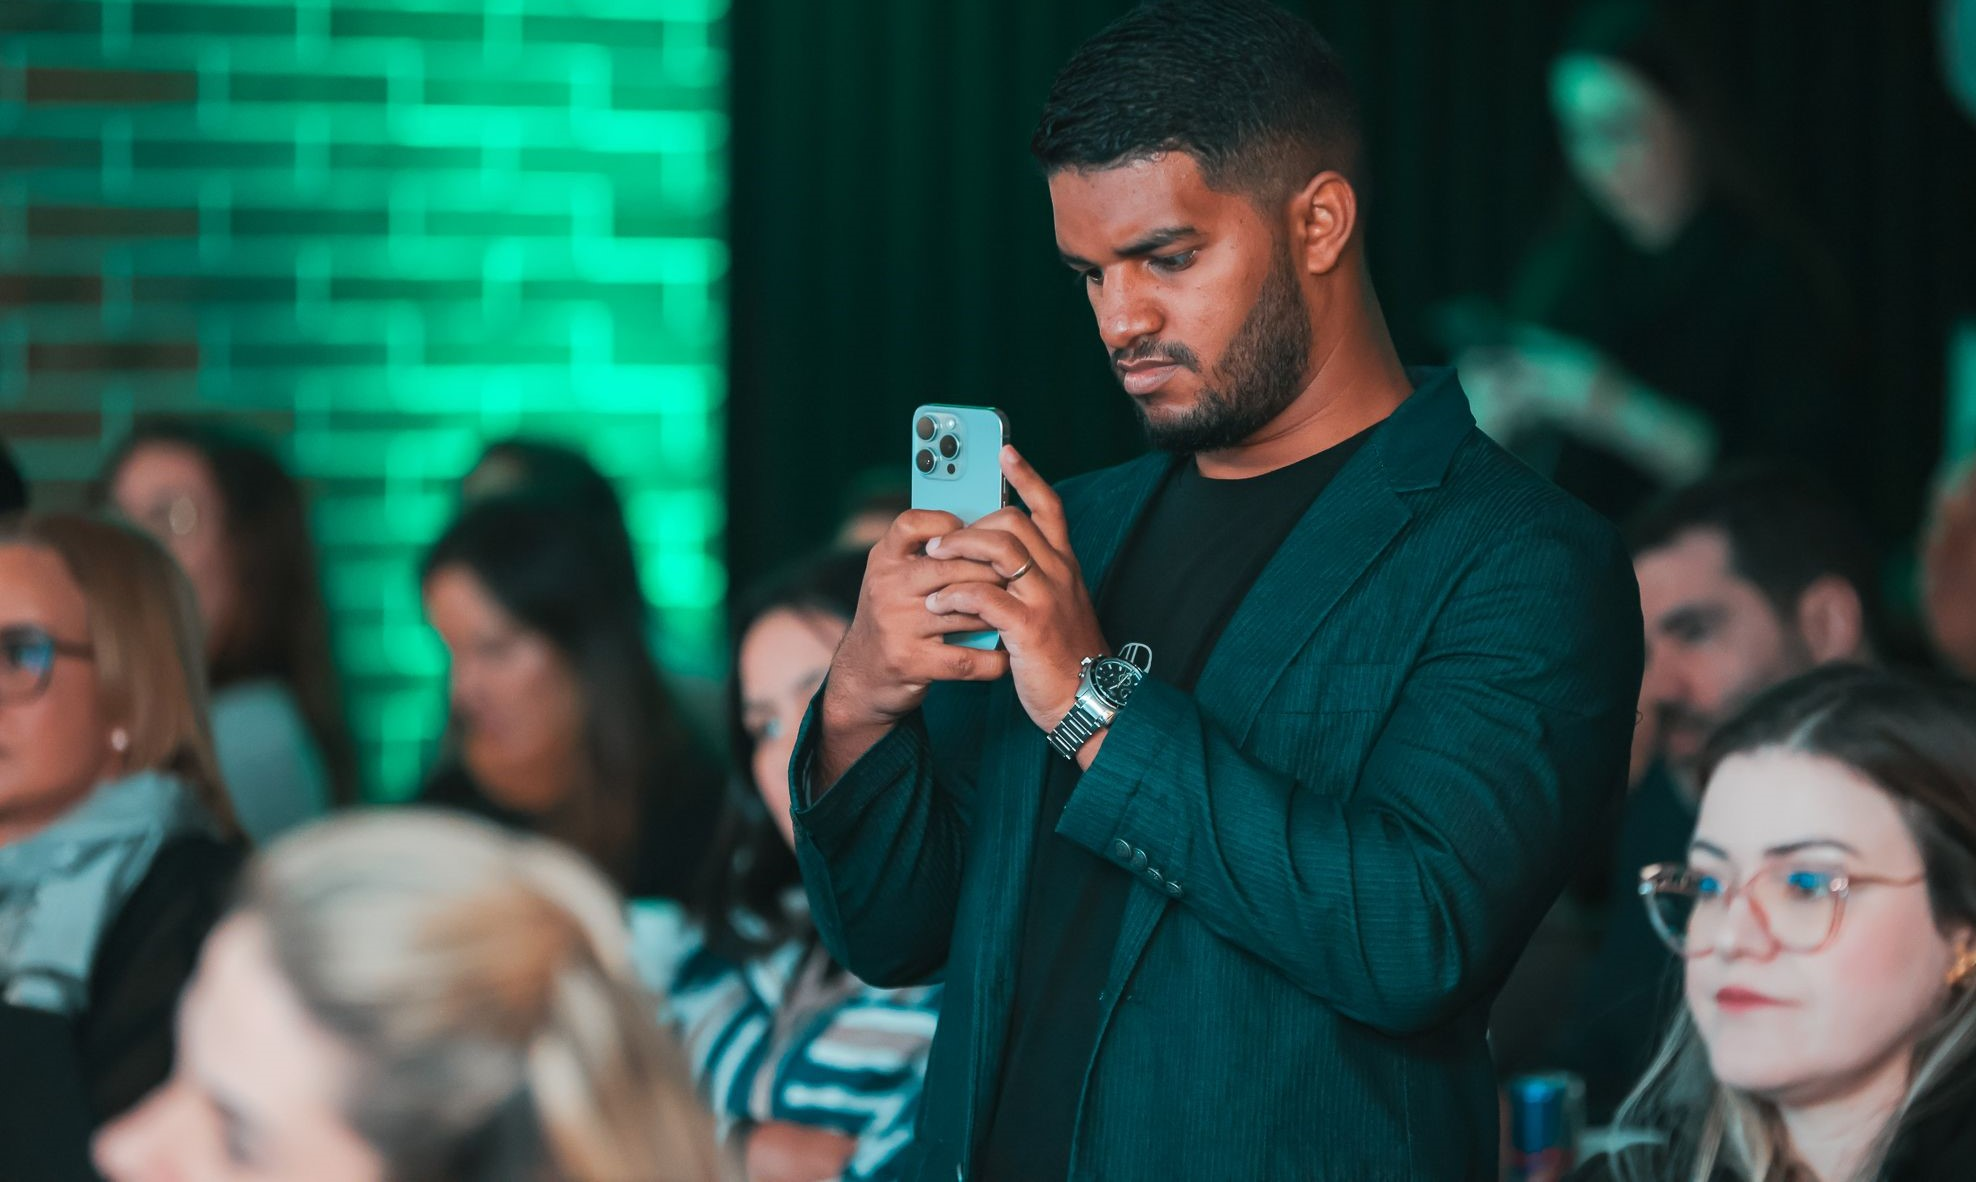
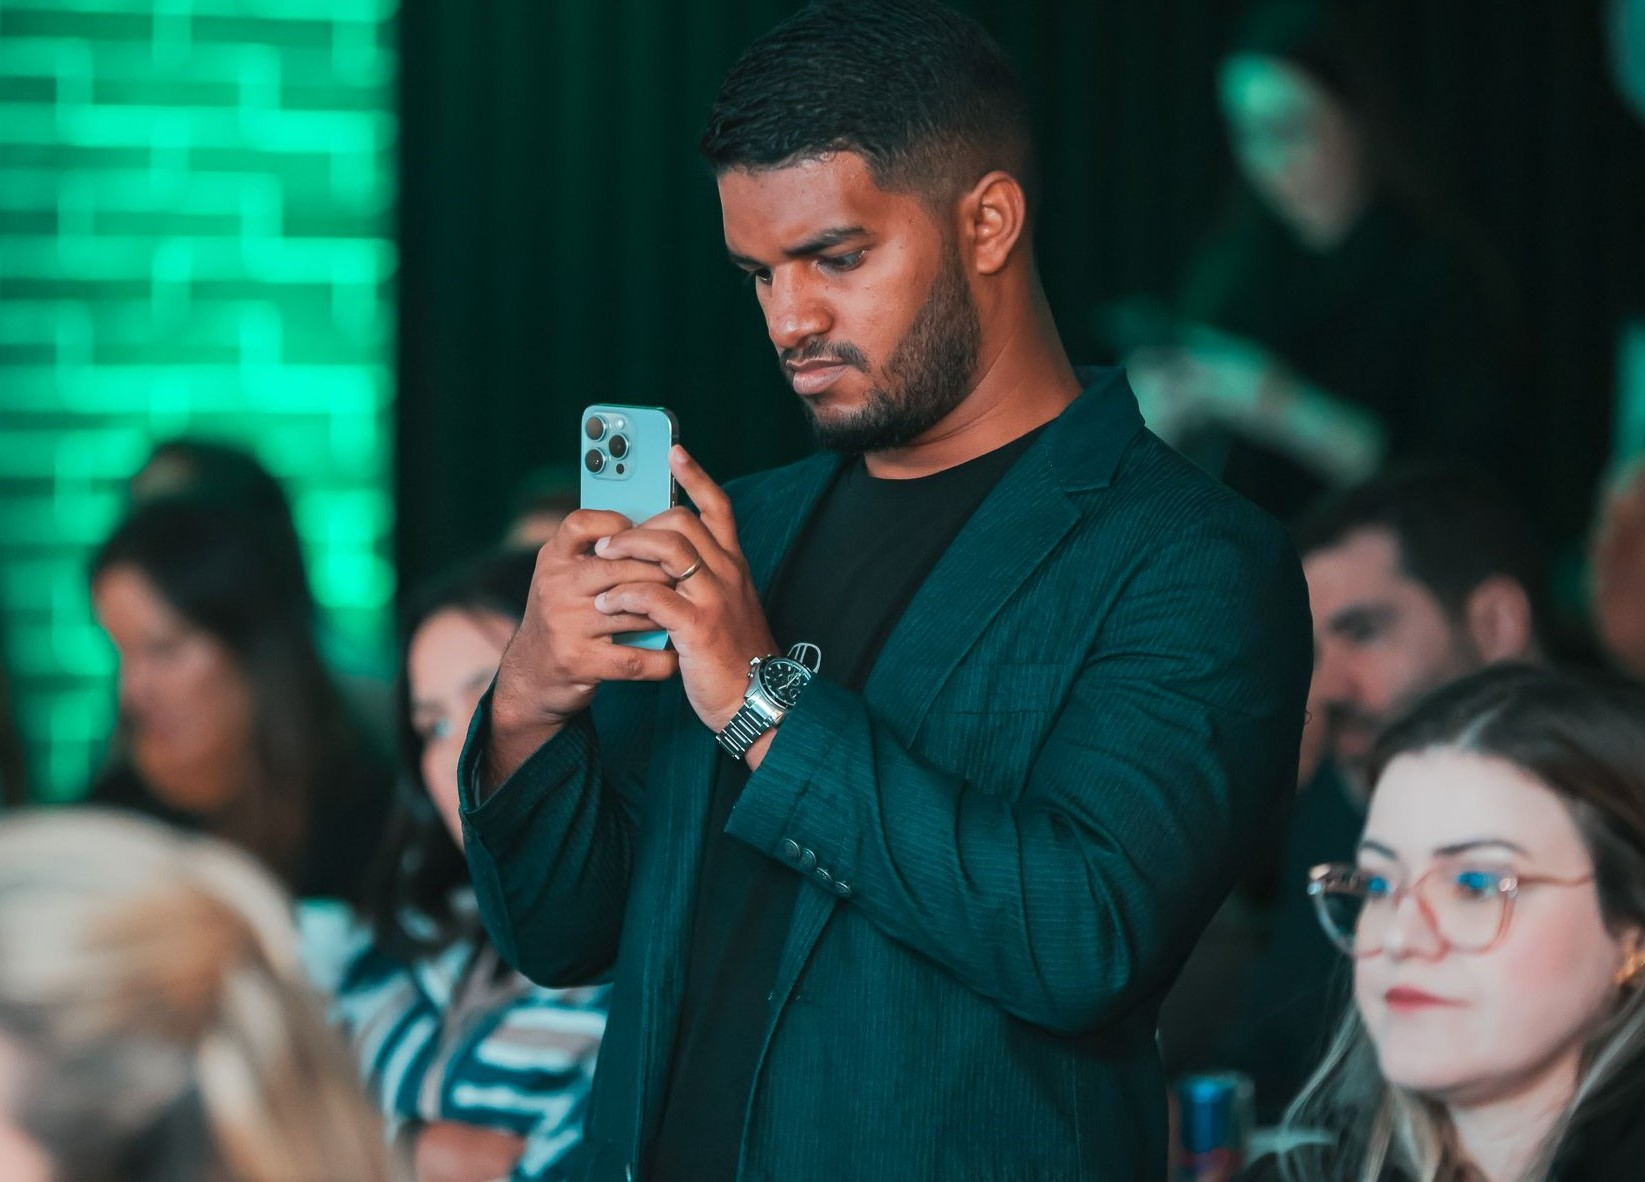
style: Reverte layout da Hero e atualiza foto IMG_3672.JPG

diff --git a/css/style.css b/css/style.css
@@ -266,15 +266,15 @@ section {
     min-height: 100vh;
     display: flex;
     align-items: flex-end;
-    padding-bottom: 2rem;
-    padding-top: 0;
+    padding-bottom: 4rem;
+    padding-top: 150px;
 }
 
 .hero-bg {
     position: absolute;
     top: 0; left: 0; width: 100%; height: 100%;
     background-size: cover;
-    background-position: center 5%;
+    background-position: center 20%;
     z-index: 0;
 }
 
@@ -290,12 +290,11 @@ section {
     z-index: 2;
     display: flex;
     flex-direction: column;
-    justify-content: flex-end;
+    justify-content: space-between;
     height: 100%;
-    padding-top: 55vh; /* Garante que a metade superior da tela fique livre para o rosto */
 }
 
-.hero-top-text { max-width: 800px; }
+.hero-top-text { max-width: 800px; margin-bottom: auto;}
 .hero-top-text p {
     color: rgba(255,255,255,0.8);
     font-size: 1.25rem;
@@ -308,9 +307,9 @@ section {
     justify-content: space-between;
     align-items: baseline;
     width: 100%;
-    margin-top: 2rem;
+    margin-top: 4rem;
     border-top: 1px solid rgba(255,255,255,0.2);
-    padding-top: 1.5rem;
+    padding-top: 2rem;
 }
 
 .hero-bottom-text h2 {
@@ -962,14 +961,4 @@ section {
     }
     
     .coverflow-container { margin-top: 1rem; }
-
-    /* Ajuste Hero Mobile: Rosto livre e centralizado */
-    .hero-bg {
-        background-size: 150%;
-        background-position: 70% 0%;
-    }
-    .hero-container {
-        padding-top: 50vh;
-        justify-content: flex-end;
-    }
 }
